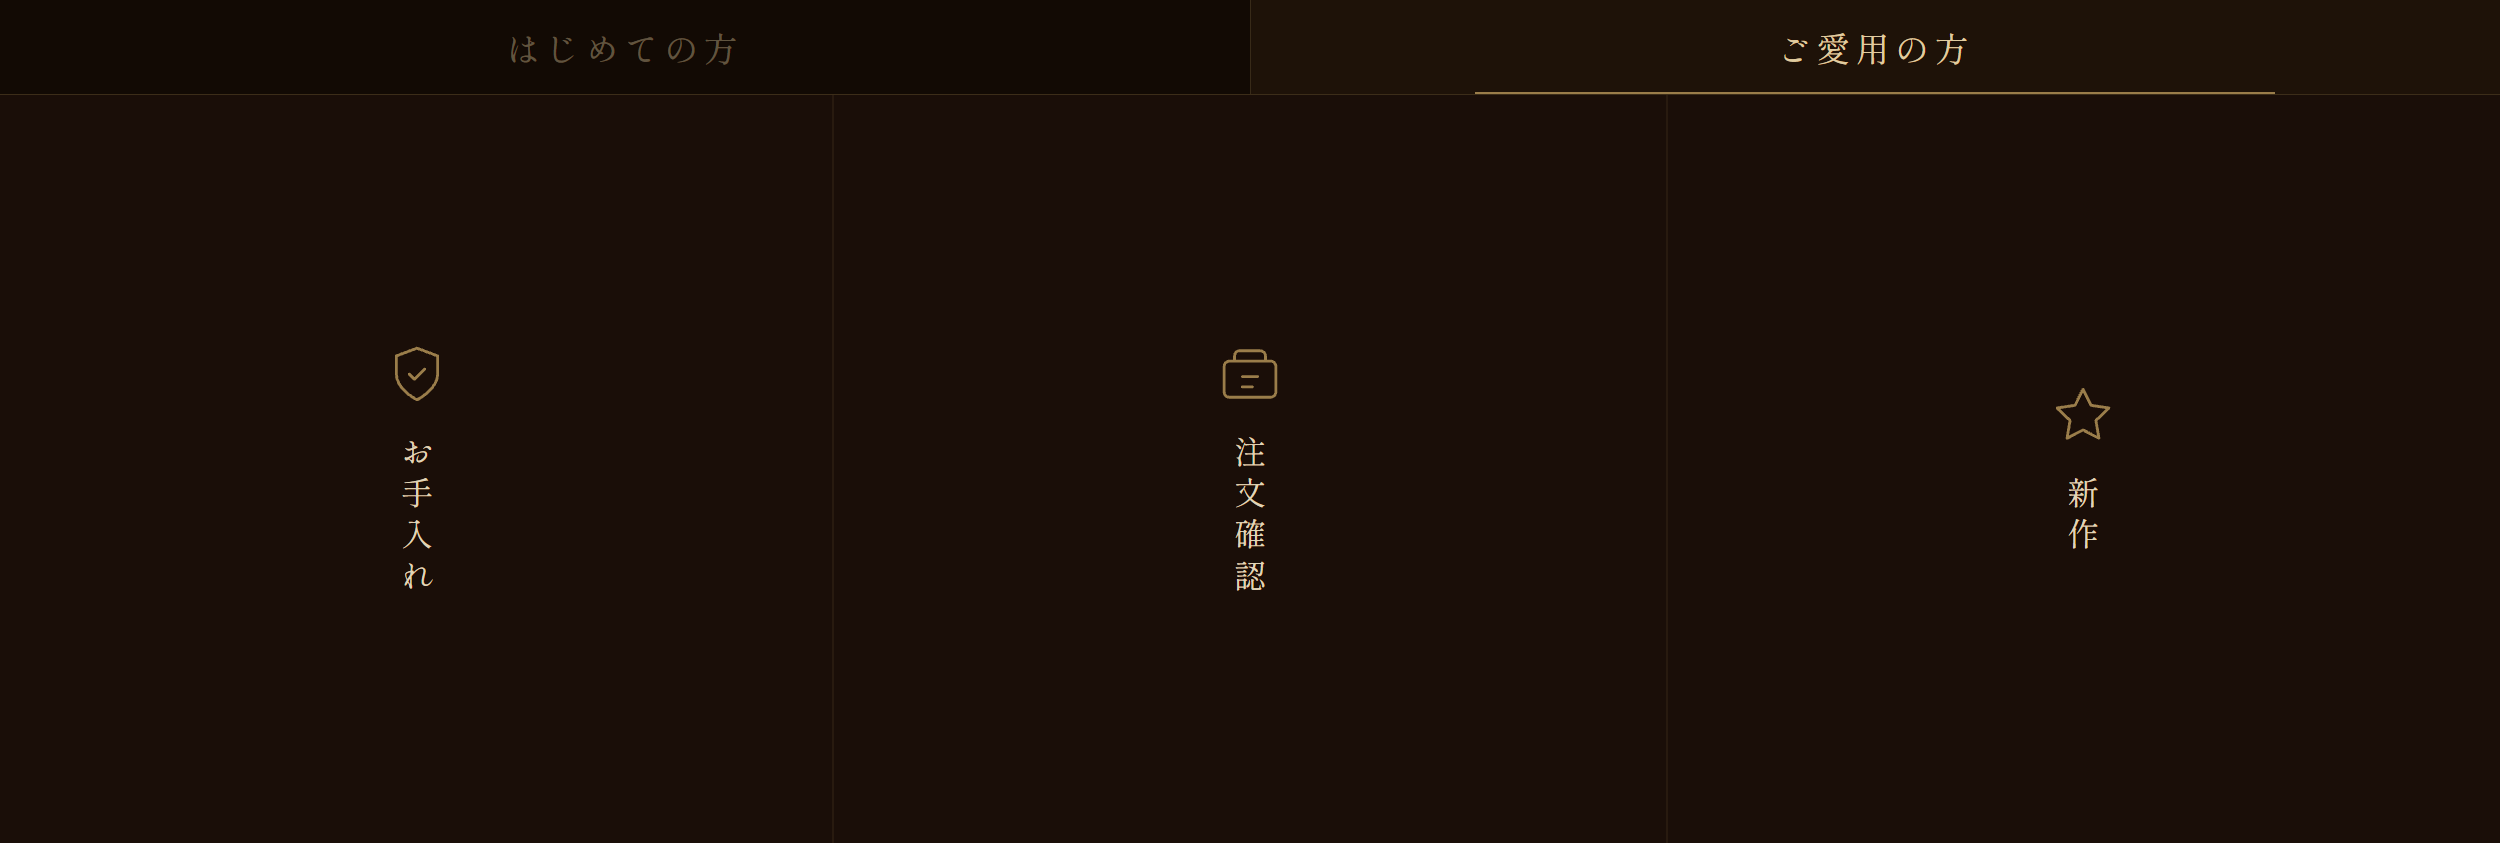
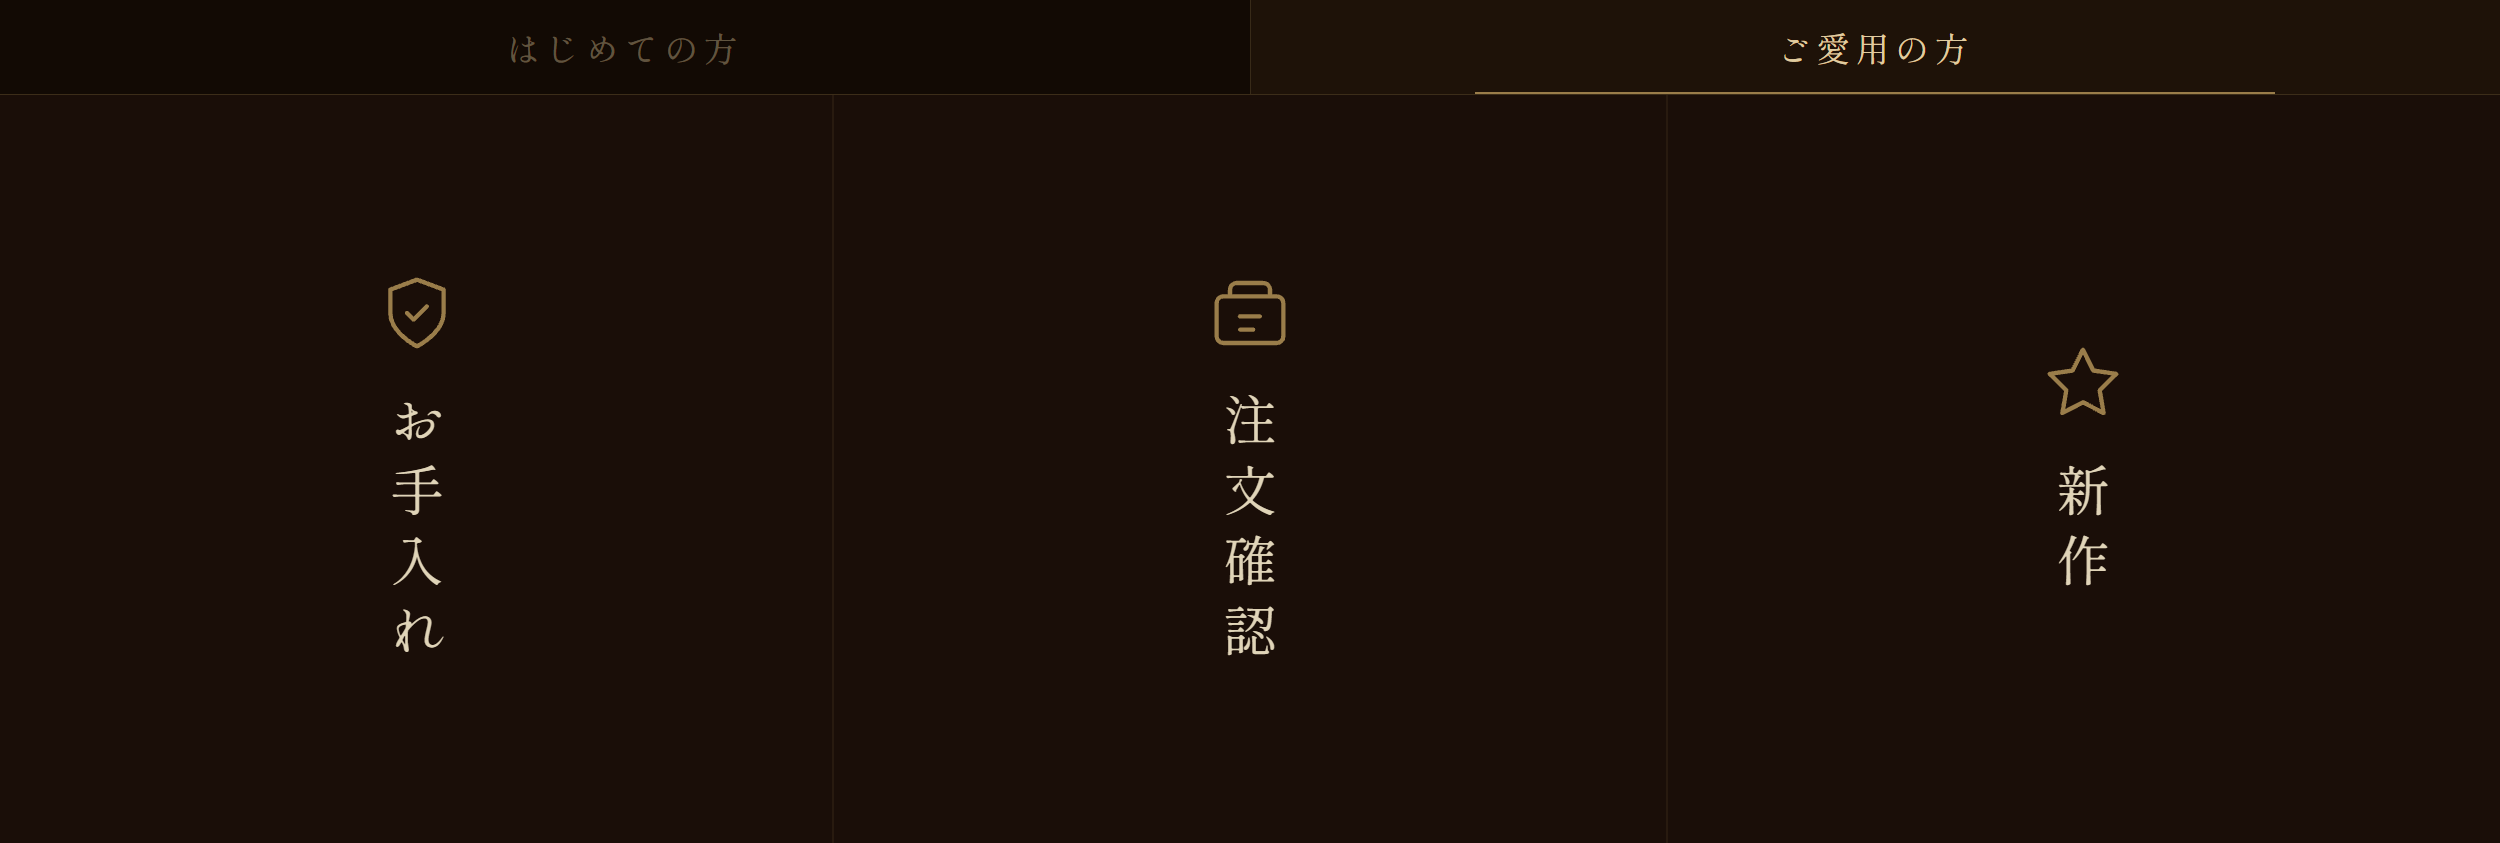
fix: アイコン・文字を大型化して縦をいっぱいに使用
icon 62→80px, font-size 32→54px, letter-spacing 9→16px
最長列(7文字)で748pxの80%を占有

diff --git a/designs/richmenu-tab-a.html b/designs/richmenu-tab-a.html
@@ -38,17 +38,17 @@ body {
   </div>
 
   <!--
-    content_h = 843 - 95 = 748px
-    text_h = N×32 + (N-1)×9
-    total  = 62(icon) + 36(gap) + text_h
-    icon_cy = (748 - total)/2 + 31
-    text_cy = 423 (全列固定)
+    content_h=748, icon=80px, font-size=54, letter-spacing=16, gap=48
+    text_h = N×54 + (N-1)×16
+    total  = 80 + 48 + text_h
+    icon_cy = (748 - total)/2 + 40
+    text_cy = 438 (全列固定)
 
-    金木犀の花言葉 (7ch): text_h=278, total=376, icon_cy=217
-    ギフト         (3ch): text_h=114, total=212, icon_cy=299
-    銘木を知る     (5ch): text_h=196, total=294, icon_cy=258
-    銘木診断       (4ch): text_h=155, total=253, icon_cy=279
-    作品を見る     (5ch): text_h=196, total=294, icon_cy=258
+    金木犀の花言葉 (7ch): text_h=474, total=602, icon_cy=113
+    ギフト         (3ch): text_h=194, total=322, icon_cy=253
+    銘木を知る     (5ch): text_h=334, total=462, icon_cy=183
+    銘木診断       (4ch): text_h=264, total=392, icon_cy=218
+    作品を見る     (5ch): text_h=334, total=462, icon_cy=183
   -->
   <svg width="2500" height="748" xmlns="http://www.w3.org/2000/svg" style="flex-shrink:0;display:block;">
     <rect width="2500" height="748" fill="#f0ebe0"/>
@@ -57,60 +57,60 @@ body {
     <line x1="1500" y1="0" x2="1500" y2="748" stroke="rgba(154,125,74,0.2)" stroke-width="1"/>
     <line x1="2000" y1="0" x2="2000" y2="748" stroke="rgba(154,125,74,0.2)" stroke-width="1"/>
 
-    <!-- Col 1: 金木犀の花言葉 (cx=250, icon_cy=217) -->
-    <g transform="translate(250,217)">
-      <svg x="-31" y="-31" width="62" height="62" viewBox="0 0 24 24" fill="none" stroke="#9a7d4a" stroke-width="1.1" stroke-linecap="round" stroke-linejoin="round">
+    <!-- Col 1: 金木犀の花言葉 (cx=250, icon_cy=113) -->
+    <g transform="translate(250,113)">
+      <svg x="-40" y="-40" width="80" height="80" viewBox="0 0 24 24" fill="none" stroke="#9a7d4a" stroke-width="1.3" stroke-linecap="round" stroke-linejoin="round">
         <path d="M12 3a6 6 0 009 9 9 9 0 11-9-9z"/>
       </svg>
     </g>
-    <text x="250" y="423" writing-mode="vertical-rl" text-anchor="middle"
+    <text x="250" y="438" writing-mode="vertical-rl" text-anchor="middle"
           font-family="'Shippori Mincho B1','Hiragino Mincho ProN','Yu Mincho',serif"
-          font-size="32" letter-spacing="9" fill="#1e1c16">金木犀の花言葉</text>
+          font-size="54" letter-spacing="16" fill="#1e1c16">金木犀の花言葉</text>
 
-    <!-- Col 2: ギフト (cx=750, icon_cy=299) -->
-    <g transform="translate(750,299)">
-      <svg x="-31" y="-31" width="62" height="62" viewBox="0 0 24 24" fill="none" stroke="#9a7d4a" stroke-width="1.1" stroke-linecap="round" stroke-linejoin="round">
+    <!-- Col 2: ギフト (cx=750, icon_cy=253) -->
+    <g transform="translate(750,253)">
+      <svg x="-40" y="-40" width="80" height="80" viewBox="0 0 24 24" fill="none" stroke="#9a7d4a" stroke-width="1.3" stroke-linecap="round" stroke-linejoin="round">
         <path d="M20 12v10H4V12"/><path d="M22 7H2v5h20V7z"/><path d="M12 22V7"/>
         <path d="M12 7H7.5a2.5 2.5 0 010-5C11 2 12 7 12 7z"/>
         <path d="M12 7h4.5a2.5 2.5 0 000-5C13 2 12 7 12 7z"/>
       </svg>
     </g>
-    <text x="750" y="423" writing-mode="vertical-rl" text-anchor="middle"
+    <text x="750" y="438" writing-mode="vertical-rl" text-anchor="middle"
           font-family="'Shippori Mincho B1','Hiragino Mincho ProN','Yu Mincho',serif"
-          font-size="32" letter-spacing="9" fill="#1e1c16">ギフト</text>
+          font-size="54" letter-spacing="16" fill="#1e1c16">ギフト</text>
 
-    <!-- Col 3: 銘木を知る (cx=1250, icon_cy=258) -->
-    <g transform="translate(1250,258)">
-      <svg x="-31" y="-31" width="62" height="62" viewBox="0 0 24 24" fill="none" stroke="#9a7d4a" stroke-width="1.1" stroke-linecap="round" stroke-linejoin="round">
+    <!-- Col 3: 銘木を知る (cx=1250, icon_cy=183) -->
+    <g transform="translate(1250,183)">
+      <svg x="-40" y="-40" width="80" height="80" viewBox="0 0 24 24" fill="none" stroke="#9a7d4a" stroke-width="1.3" stroke-linecap="round" stroke-linejoin="round">
         <path d="M2 3h6a4 4 0 014 4v14a3 3 0 00-3-3H2z"/>
         <path d="M22 3h-6a4 4 0 00-4 4v14a3 3 0 013-3h7z"/>
       </svg>
     </g>
-    <text x="1250" y="423" writing-mode="vertical-rl" text-anchor="middle"
+    <text x="1250" y="438" writing-mode="vertical-rl" text-anchor="middle"
           font-family="'Shippori Mincho B1','Hiragino Mincho ProN','Yu Mincho',serif"
-          font-size="32" letter-spacing="9" fill="#1e1c16">銘木を知る</text>
+          font-size="54" letter-spacing="16" fill="#1e1c16">銘木を知る</text>
 
-    <!-- Col 4: 銘木診断 (cx=1750, icon_cy=279) -->
-    <g transform="translate(1750,279)">
-      <svg x="-31" y="-31" width="62" height="62" viewBox="0 0 24 24" fill="none" stroke="#9a7d4a" stroke-width="1.1" stroke-linecap="round" stroke-linejoin="round">
+    <!-- Col 4: 銘木診断 (cx=1750, icon_cy=218) -->
+    <g transform="translate(1750,218)">
+      <svg x="-40" y="-40" width="80" height="80" viewBox="0 0 24 24" fill="none" stroke="#9a7d4a" stroke-width="1.3" stroke-linecap="round" stroke-linejoin="round">
         <path d="M9.09 9a3 3 0 015.83 1c0 2-3 3-3 3"/>
         <circle cx="12" cy="17" r="1.2" fill="#9a7d4a" stroke="none"/>
         <circle cx="12" cy="12" r="10"/>
       </svg>
     </g>
-    <text x="1750" y="423" writing-mode="vertical-rl" text-anchor="middle"
+    <text x="1750" y="438" writing-mode="vertical-rl" text-anchor="middle"
           font-family="'Shippori Mincho B1','Hiragino Mincho ProN','Yu Mincho',serif"
-          font-size="32" letter-spacing="9" fill="#1e1c16">銘木診断</text>
+          font-size="54" letter-spacing="16" fill="#1e1c16">銘木診断</text>
 
-    <!-- Col 5: 作品を見る (cx=2250, icon_cy=258) -->
-    <g transform="translate(2250,258)">
-      <svg x="-31" y="-31" width="62" height="62" viewBox="0 0 24 24" fill="none" stroke="#9a7d4a" stroke-width="1.1" stroke-linecap="round" stroke-linejoin="round">
+    <!-- Col 5: 作品を見る (cx=2250, icon_cy=183) -->
+    <g transform="translate(2250,183)">
+      <svg x="-40" y="-40" width="80" height="80" viewBox="0 0 24 24" fill="none" stroke="#9a7d4a" stroke-width="1.3" stroke-linecap="round" stroke-linejoin="round">
         <path d="M17 3a2.828 2.828 0 114 4L7.5 20.5 2 22l1.5-5.5L17 3z"/>
       </svg>
     </g>
-    <text x="2250" y="423" writing-mode="vertical-rl" text-anchor="middle"
+    <text x="2250" y="438" writing-mode="vertical-rl" text-anchor="middle"
           font-family="'Shippori Mincho B1','Hiragino Mincho ProN','Yu Mincho',serif"
-          font-size="32" letter-spacing="9" fill="#1e1c16">作品を見る</text>
+          font-size="54" letter-spacing="16" fill="#1e1c16">作品を見る</text>
   </svg>
 </div>
 </body>

diff --git a/designs/richmenu-tab-b.html b/designs/richmenu-tab-b.html
@@ -12,8 +12,6 @@ body {
   -webkit-font-smoothing: antialiased;
 }
 .menu { width: 2500px; height: 843px; display: flex; flex-direction: column; background: #1a0e08; }
-
-/* ── タブバー (0〜95px) ── */
 .tabs {
   display: flex; align-items: stretch; height: 95px; flex-shrink: 0;
   background: #120a04; border-bottom: 1px solid rgba(154,125,74,0.3);
@@ -34,7 +32,6 @@ body {
 <body>
 <div class="menu">
 
-  <!-- タブバー (y: 0-95) -->
   <div class="tabs">
     <div class="tab inactive">はじめての方</div>
     <div class="tab-sep"></div>
@@ -42,24 +39,20 @@ body {
   </div>
 
   <!--
-    content_h = 843 - 95 = 748px
-    col widths: 833, 834, 833  → cx: 417, 1250, 2083
-    text_h = N×32 + (N-1)×9
-    total  = 62(icon) + 36(gap) + text_h
-    icon_cy = (748 - total)/2 + 31
-    text_cy = 423 (全列固定)
+    content_h=748, icon=80px, font-size=54, letter-spacing=16, gap=48
+    text_h = N×54 + (N-1)×16
+    total  = 80 + 48 + text_h
+    icon_cy = (748 - total)/2 + 40
+    text_cy = 438 (全列固定)
 
-    お手入れ (4ch): text_h=155, total=253, icon_cy=279
-    注文確認 (4ch): same, icon_cy=279
-    新作     (2ch): text_h=73,  total=171, icon_cy=320
+    お手入れ (4ch): text_h=264, total=392, icon_cy=218
+    注文確認 (4ch): same
+    新作     (2ch): text_h=124, total=252, icon_cy=288
   -->
   <svg width="2500" height="748" xmlns="http://www.w3.org/2000/svg" style="flex-shrink:0;">
-    <!-- 背景 -->
     <rect width="2500" height="748" fill="#1a0e08"/>
-    <!-- 列区切り -->
     <line x1="833"  y1="0" x2="833"  y2="748" stroke="rgba(154,125,74,0.22)" stroke-width="1"/>
     <line x1="1667" y1="0" x2="1667" y2="748" stroke="rgba(154,125,74,0.22)" stroke-width="1"/>
-    <!-- 各列上部の金ライン -->
     <defs>
       <linearGradient id="gold-line" x1="0" y1="0" x2="1" y2="0">
         <stop offset="0%"   stop-color="rgba(154,125,74,0)"/>
@@ -71,41 +64,41 @@ body {
     <line x1="983"  y1="0" x2="1517" y2="0" stroke="url(#gold-line)" stroke-width="1"/>
     <line x1="1817" y1="0" x2="2350" y2="0" stroke="url(#gold-line)" stroke-width="1"/>
 
-    <!-- ── Col 1: お手入れ (cx=417, icon_cy=279) ── -->
-    <g transform="translate(417,279)">
-      <svg x="-31" y="-31" width="62" height="62" viewBox="0 0 24 24"
-           fill="none" stroke="#9a7d4a" stroke-width="1.1" stroke-linecap="round" stroke-linejoin="round">
+    <!-- Col 1: お手入れ (cx=417, icon_cy=218) -->
+    <g transform="translate(417,218)">
+      <svg x="-40" y="-40" width="80" height="80" viewBox="0 0 24 24"
+           fill="none" stroke="#9a7d4a" stroke-width="1.3" stroke-linecap="round" stroke-linejoin="round">
         <path d="M12 22s8-4 8-10V5l-8-3-8 3v7c0 6 8 10 8 10z"/>
         <path d="M9 12l2 2 4-4"/>
       </svg>
     </g>
-    <text x="417" y="423" writing-mode="vertical-rl" text-anchor="middle"
+    <text x="417" y="438" writing-mode="vertical-rl" text-anchor="middle"
           font-family="'Shippori Mincho B1','Hiragino Mincho ProN','Yu Mincho',serif"
-          font-size="32" letter-spacing="9" fill="#e0d4b8">お手入れ</text>
+          font-size="54" letter-spacing="16" fill="#e0d4b8">お手入れ</text>
 
-    <!-- ── Col 2: 注文確認 (cx=1250, icon_cy=279) ── -->
-    <g transform="translate(1250,279)">
-      <svg x="-31" y="-31" width="62" height="62" viewBox="0 0 24 24"
-           fill="none" stroke="#9a7d4a" stroke-width="1.1" stroke-linecap="round" stroke-linejoin="round">
+    <!-- Col 2: 注文確認 (cx=1250, icon_cy=218) -->
+    <g transform="translate(1250,218)">
+      <svg x="-40" y="-40" width="80" height="80" viewBox="0 0 24 24"
+           fill="none" stroke="#9a7d4a" stroke-width="1.3" stroke-linecap="round" stroke-linejoin="round">
         <path d="M20 7H4a2 2 0 00-2 2v10a2 2 0 002 2h16a2 2 0 002-2V9a2 2 0 00-2-2z"/>
         <path d="M16 3h-8a2 2 0 00-2 2v2h12V5a2 2 0 00-2-2z"/>
         <path d="M9 13h6M9 17h4"/>
       </svg>
     </g>
-    <text x="1250" y="423" writing-mode="vertical-rl" text-anchor="middle"
+    <text x="1250" y="438" writing-mode="vertical-rl" text-anchor="middle"
           font-family="'Shippori Mincho B1','Hiragino Mincho ProN','Yu Mincho',serif"
-          font-size="32" letter-spacing="9" fill="#e0d4b8">注文確認</text>
+          font-size="54" letter-spacing="16" fill="#e0d4b8">注文確認</text>
 
-    <!-- ── Col 3: 新作 (cx=2083, icon_cy=320) ── -->
-    <g transform="translate(2083,320)">
-      <svg x="-31" y="-31" width="62" height="62" viewBox="0 0 24 24"
-           fill="none" stroke="#9a7d4a" stroke-width="1.1" stroke-linecap="round" stroke-linejoin="round">
+    <!-- Col 3: 新作 (cx=2083, icon_cy=288) -->
+    <g transform="translate(2083,288)">
+      <svg x="-40" y="-40" width="80" height="80" viewBox="0 0 24 24"
+           fill="none" stroke="#9a7d4a" stroke-width="1.3" stroke-linecap="round" stroke-linejoin="round">
         <polygon points="12 2 15.09 8.26 22 9.27 17 14.14 18.18 21.02 12 17.77 5.82 21.02 7 14.14 2 9.27 8.91 8.26 12 2"/>
       </svg>
     </g>
-    <text x="2083" y="423" writing-mode="vertical-rl" text-anchor="middle"
+    <text x="2083" y="438" writing-mode="vertical-rl" text-anchor="middle"
           font-family="'Shippori Mincho B1','Hiragino Mincho ProN','Yu Mincho',serif"
-          font-size="32" letter-spacing="9" fill="#e0d4b8">新作</text>
+          font-size="54" letter-spacing="16" fill="#e0d4b8">新作</text>
   </svg>
 
 </div>
